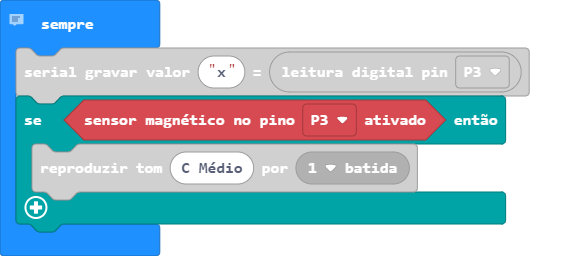
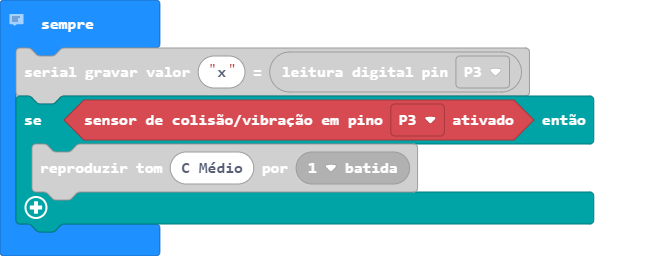
Update main.blocks, main.ts, hackbit.ts

diff --git a/hackbit.ts b/hackbit.ts
@@ -935,7 +935,7 @@ namespace hackbit {
     //% subcategory=Input  group="Digital" 
     //% color=#DA5259 
     export function TiltState(pin: DigitalPin): boolean {
-        pins.setPull(pin, PinPullMode.PullUp)
+        pins.setPull(pin, PinPullMode.PullDown)
         if (pins.digitalReadPin(pin) == 0) {
             return true
         }

diff --git a/main.ts b/main.ts
@@ -1,7 +1,7 @@
 // www.hackids.com.br
 basic.forever(function () {
     serial.writeValue("x", pins.digitalReadPin(DigitalPin.P3))
-    if (hackbit.MagneticSwitchState(DigitalPin.P3)) {
+    if (hackbit.collisionSensor(DigitalPin.P3)) {
         music.playTone(262, music.beat(BeatFraction.Whole))
     }
 })
